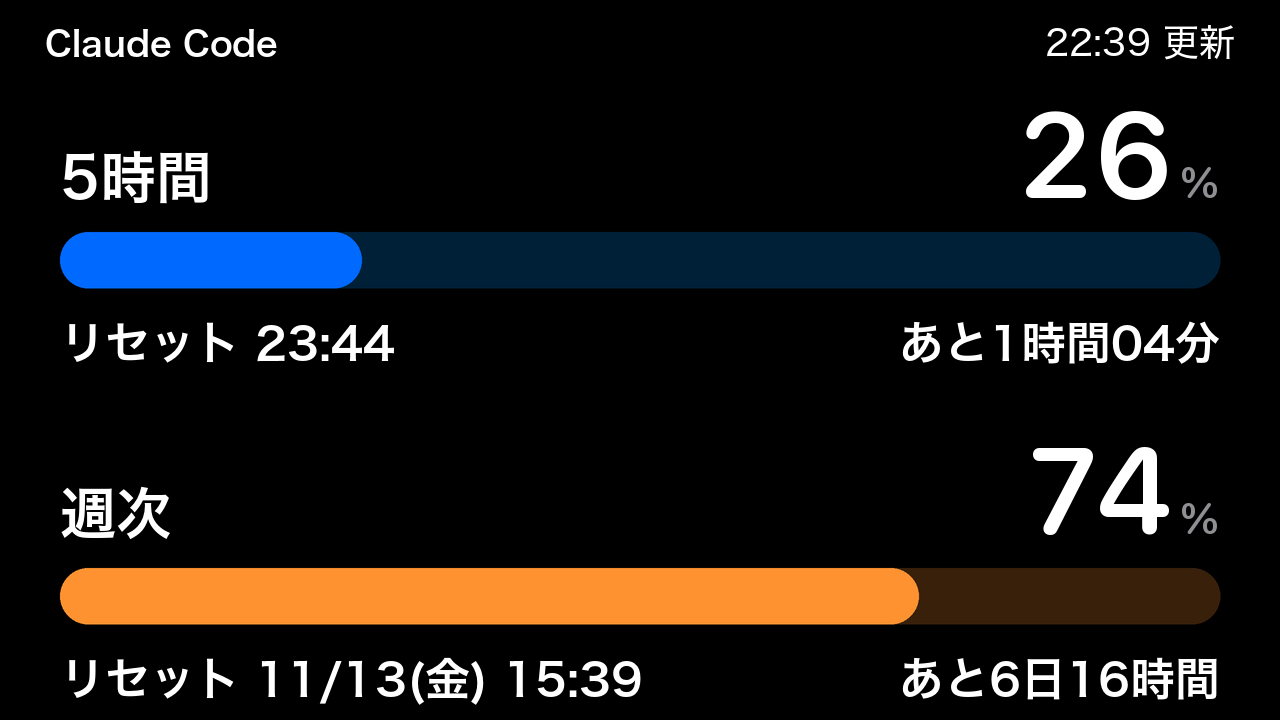
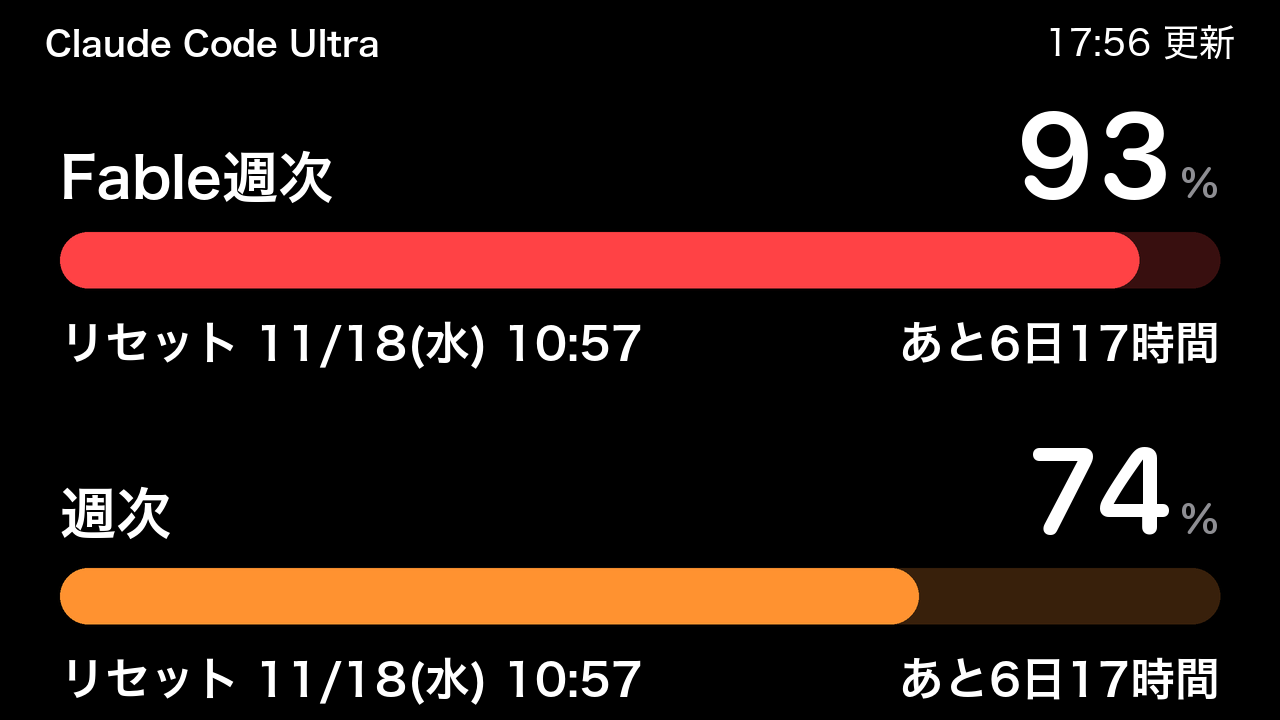
feat(pace): 上段を Fable の週次にし、見出しを「Claude Code Ultra」にする
Ultra を続けることにしたため（ユーザーの指示）。Ultra には 5 時間の枠が無く、Fable の
週次の枠がある（公式の記事「What is the Ultra plan?」と利用枠の API で確かめた）。
pace.ORDER を (2, 1)、pace.TITLE を追加。snapshot にその番号の枠が無ければ「--」で描く。

diff --git a/tests/test_pace.py b/tests/test_pace.py
@@ -19,7 +19,8 @@ def near(pixel, color, tolerance=12):
     return all(abs(a - b) <= tolerance for a, b in zip(pixel, color))
 
 
-SESSION, WEEKLY = pace.ORDER.index(0), pace.ORDER.index(1)  # 5時間・週次を出す段（0 が上）
+FABLE, WEEKLY = pace.ORDER.index(2), pace.ORDER.index(1)  # Fable週次・週次を出す段（0 が上）
+NAMES = ("5時間", "週次", "Fable週次")  # snapshot.meters の番号ごとの名前
 
 
 def bar_row(index):
@@ -29,23 +30,37 @@ def bar_row(index):
 
 class PaceTest(unittest.TestCase):
     def test_bars_are_filled_to_the_percent(self):
-        image = pace.render(snapshot(), NOW, size=SIZE)
+        image = pace.render(snapshot(scoped=26.0), NOW, size=SIZE)
         self.assertEqual(image.size, SIZE)
         left, right = pace.MARGIN, SIZE[0] - pace.MARGIN
-        y = bar_row(SESSION)
+        y = bar_row(FABLE)
         blue = gauge.layout_for(SIZE).blue
         self.assertTrue(near(image.getpixel((round(left + (right - left) * 0.20), y)), blue))  # 26% の手前は塗る
         self.assertFalse(near(image.getpixel((round(left + (right - left) * 0.40), y)), blue))  # 26% より先は地
         self.assertTrue(near(image.getpixel((round(left + (right - left) * 0.5), bar_row(WEEKLY))), gauge.ORANGE))  # 74%
 
-    def test_session_is_on_top_and_weekly_below(self):
-        # 2026-11-06、「5時間、週次に並び替えて」（ユーザーの指示。2026-11-04 に上を週次にしていたのを戻した）
-        self.assertEqual((SESSION, WEEKLY), (0, 1))
-        image = pace.render(snapshot(), NOW, size=(480, 320))
+    def test_fable_is_on_top_and_weekly_below(self):
+        # 2026-11-11、Ultra を続けることにしたユーザーの指示で、上の段を 5時間から Fable の週次に替えた
+        # （それまでは 2026-11-06 の「5時間、週次に並び替えて」で、上が 5時間・下が週次）
+        self.assertEqual((FABLE, WEEKLY), (0, 1))
+        image = pace.render(snapshot(session=99.0, scoped=26.0), NOW, size=(480, 320))
         s = 320 / pace.HEIGHT
         x = round((pace.MARGIN + (1280 - 2 * pace.MARGIN) * 0.5) * 480 / 1280)  # 26% より先、74% より手前
-        self.assertFalse(near(image.getpixel((x, round(bar_row(0) * s))), gauge.ORANGE))  # 上の段は 5時間の 26%
-        self.assertTrue(near(image.getpixel((x, round(bar_row(1) * s))), gauge.ORANGE))  # 下の段は週次の 74%
+        top, bottom = image.getpixel((x, round(bar_row(0) * s))), image.getpixel((x, round(bar_row(1) * s)))
+        self.assertFalse(near(top, gauge.ORANGE) or near(top, gauge.RED))  # 上の段は Fable の 26%（5時間の 99% ではない）
+        self.assertTrue(near(bottom, gauge.ORANGE))  # 下の段は週次の 74%
+
+    def test_title_is_claude_code_ultra(self):
+        # 2026-11-11、「ヘッダーの文字を Claude Code Ultra にしよう」（ユーザーの指示）
+        self.assertEqual(pace.TITLE, "Claude Code Ultra")
+        ultra = pace.render(snapshot(), NOW, size=SIZE)
+        try:
+            pace.TITLE = "Claude Code"
+            plain = pace.render(snapshot(), NOW, size=SIZE)
+        finally:
+            pace.TITLE = "Claude Code Ultra"
+        header = [(x, y) for x in range(0, SIZE[0] // 2, 2) for y in range(0, 70, 2)]
+        self.assertTrue(any(ultra.getpixel(p) != plain.getpixel(p) for p in header))
 
     def test_no_elapsed_mark_or_text(self):
         # 2026-11-03、「時間経過の表記と縦棒は不要」（ユーザーの指示）。棒の上にも名前の右にも白い字・線を出さない
@@ -55,12 +70,12 @@ class PaceTest(unittest.TestCase):
             band = [image.getpixel((x, y)) for x in range(left, right, 4)
                     for y in range(top + pace.BAR[0] - 14, top + pace.BAR[1] + 14, 2)]
             self.assertFalse(any(min(p) > 200 for p in band))
-            name_end = left + font(pace.NAME[1], 6).getlength("5時間") + 10
+            name_end = left + font(pace.NAME[1], 6).getlength(NAMES[pace.ORDER[pace.ROWS.index(top)]]) + 10
             beside = [image.getpixel((x, top + pace.NAME[0] - 10)) for x in range(round(name_end), round(name_end) + 300)]
             self.assertTrue(all(p == gauge.BACKGROUND for p in beside))
 
-    def test_only_session_and_weekly_are_drawn(self):
-        # Fable を使っていないので 2 項目だけ（2026-11-03 ユーザーの指示）。3 段目の位置は黒のまま
+    def test_only_two_rows_are_drawn(self):
+        # 2 項目だけ（2026-11-03 ユーザーの指示）。3 段目の位置は黒のまま
         image = pace.render(snapshot(), NOW, size=SIZE)
         below = [image.getpixel((x, 714)) for x in range(pace.MARGIN, SIZE[0] - pace.MARGIN, 10)]
         self.assertTrue(all(p == gauge.BACKGROUND for p in below))
@@ -92,7 +107,7 @@ class PaceTest(unittest.TestCase):
 
     def test_missing_values_and_fetch_errors_still_render(self):
         gone = Snapshot((Meter("5時間", None, None), Meter("週次", 9, NOW + timedelta(days=6))), NOW)
-        image = pace.render(gone, NOW, "5時間の枠がなくなりました", size=SIZE)
+        image = pace.render(gone, NOW, "取得の間隔を空けています", size=SIZE)  # Fable週次の枠も無い（「--」で描く）
         badge = gauge._badge(gauge.layout_for(SIZE), gauge.HEADER_BASELINE)
         self.assertTrue(near(image.getpixel((round(badge[0]) - 10, round(badge[1]))), gauge.ORANGE, 40))  # 「!」の横
         self.assertEqual(pace.render(None, NOW, "通信できません", size=SIZE).size, SIZE)
@@ -100,7 +115,7 @@ class PaceTest(unittest.TestCase):
     def test_long_texts_do_not_overlap(self):
         # 名前は数字「100%」の左、下の行は左右で重ならない
         name, unit, number = font(pace.NAME[1], 6), gauge.rounded(pace.UNIT), gauge.rounded(pace.NUMBER[1])
-        name_end = pace.MARGIN + name.getlength("5時間")
+        name_end = pace.MARGIN + max(name.getlength(NAMES[i]) for i in pace.ORDER)
         number_start = SIZE[0] - pace.MARGIN - unit.getlength("%") - pace.UNIT_GAP - number.getlength("100")
         self.assertLess(name_end + 40, number_start)
         line = font(pace.LINE[1], 6)
@@ -111,7 +126,8 @@ class PaceTest(unittest.TestCase):
     def test_bottom_line_keeps_a_gap_on_the_35_inch_display(self):
         # 2026-11-03、3.5 インチ（横の狭い 3:2）で週次の日時と残り時間がくっついた。字を縮めて間を残す
         long = Snapshot((Meter("5時間", 26.0, NOW + timedelta(hours=4, minutes=59)),
-                         Meter("週次", 74.0, NOW + timedelta(days=6, hours=23, minutes=59))), NOW)
+                         Meter("週次", 74.0, NOW + timedelta(days=6, hours=23, minutes=59)),
+                         Meter("Fable週次", 26.0, NOW + timedelta(days=6, hours=23, minutes=59))), NOW)
         image = pace.render(long, NOW, size=(480, 320))
         s = 320 / pace.HEIGHT
         row = pace.ROWS[WEEKLY]
@@ -152,12 +168,13 @@ class PaceTest(unittest.TestCase):
         s = 320 / pace.HEIGHT
         with_mark = pace.render(snapshot(), NOW, size=(480, 320), icons=icons)
         plain = pace.render(snapshot(), NOW, size=(480, 320))
-        baseline = round((pace.ROWS[SESSION] + pace.LINE[0]) * s)  # 5時間の段（「リセット済み」も 5時間で確かめる）
+        baseline = round((pace.ROWS[FABLE] + pace.LINE[0]) * s)  # Fable週次の段（「リセット済み」も同じ段で確かめる）
         row = range(round(pace.MARGIN * s), round(pace.MARGIN * s) + 14)
         band = range(baseline - 14, baseline)
         self.assertTrue(any(near(with_mark.getpixel((x, y)), (0, 255, 0), 40) for x in row for y in band))
         self.assertFalse(any(near(plain.getpixel((x, y)), (0, 255, 0), 40) for x in row for y in band))
         # 「リセット済み」は文字のまま（記号を出さない）
-        done = Snapshot((Meter("5時間", 26.0, NOW - timedelta(minutes=1)), Meter("週次", 74.0, NOW + timedelta(days=3))), NOW)
+        done = Snapshot((Meter("5時間", 26.0, NOW + timedelta(hours=1)), Meter("週次", 74.0, NOW + timedelta(days=3)),
+                         Meter("Fable週次", 26.0, NOW - timedelta(minutes=1))), NOW)
         image = pace.render(done, NOW, size=(480, 320), icons=icons)
         self.assertFalse(any(near(image.getpixel((x, y)), (0, 255, 0), 40) for x in row for y in band))

diff --git a/claude_usage_display/pace.py b/claude_usage_display/pace.py
@@ -1,9 +1,11 @@
-"""5時間と週次の 2 つを太い横棒で出す画面（``--theme pace``）。5.2 インチ向けに作った（2026-11-03）。
+"""利用枠の 2 つを太い横棒で出す画面（``--theme pace``）。5.2 インチ向けに作った（2026-11-03）。
 
-ユーザーが Fable を使っていないので 2 項目にし、見せ方を見本の 3 案から選んだ（「案 2」。``docs/handover.md`` §4-24）。
+最初は 5時間と週次の 2 項目にし（ユーザーが Fable を使っていなかった）、見せ方を見本の 3 案から選んだ（「案 2」。
+``docs/handover.md`` §4-24）。
 
 - 上下 2 段に、Apple の Gauges の直線の容量ゲージ（値の位置まで塗る）を太い横棒で置く。2 本は同じ幅・同じ左端なので、
-  棒の端の位置で 2 つを比べられる。上が 5時間、下が週次（2026-11-04 に入れ替え、2026-11-06 にユーザーの指示で戻した）
+  棒の端の位置で 2 つを比べられる。上が Fable の週次、下が全モデルの週次（``ORDER``。2026-11-11、Ultra を続けることに
+  したユーザーの指示で、5 時間の枠の段を Fable の週次に替えた。Ultra には 5 時間の枠が無く、Fable の週次の枠がある）
 - 名前は棒の真上の左、数字は右上に（% は小さく灰色）。名前と数字は同じ基準線に載せる。下の行は、左にリセットの日時、
   右に残り時間
 - 名前の pace は、最初は棒の上に枠の時間の経過の目印（と名前の右に「経過 N%」）を出していたことから。同じ日に、
@@ -31,7 +33,7 @@ MARGIN = 60          # 左右の余白
 # 5時間と週次の間を広げた（約 15→27 px（3.5 インチ）。同日、ユーザーの指示「5時間と週次を隙間を空けたい」）。
 # 1 段目を 84→76 に上げ、2 段目を 398→412 に下げ、下の行を 290→284 に上げて画面の下に収めた
 ROWS = (76, 412)     # 2 段の上端
-ORDER = (0, 1)       # 上の段から順に、どの枠を出すか（snapshot.meters の番号。0 が 5時間、1 が週次）
+ORDER = (2, 1)       # 上の段から順に、どの枠を出すか（snapshot.meters の番号。0 が 5時間、1 が週次、2 が Fable週次）
 # 名前は数字と同じ基準線に載せ、棒の真上に置く（2026-11-04、ユーザーの指示「5時間・週次のテキストをバーの真上に」。
 # 見本の 2 案から選んだ。70→122。3.5 インチで、名前と棒の間は 35→12 px で、棒と下の行の間（14〜15 px）とほぼ同じ）
 NAME = (122, 56)     # 名前の基準線（段の上端から）・大きさ
@@ -48,6 +50,9 @@ RESET_GAP = 0.3      # 記号と時刻の間（同じく比）
 # そろえる（2026-11-03 ユーザーの指示。ゲージ型の画面の 3.5 インチの既定は 13 で、並べると小さく見えた）。
 # 5.2 インチでは 36 px で、それまでと同じ
 STAMP = 16
+# 見出しの名前。2026-11-11、Ultra を続けることにしたユーザーの指示で「Claude Code」から変えた（プランは API の応答から
+# 読まず、ここに書く）
+TITLE = "Claude Code Ultra"
 
 
 def _reset_text(when: str) -> str:
@@ -57,14 +62,17 @@ def _reset_text(when: str) -> str:
 def render(snapshot: Snapshot | None, now: datetime, status: str | None = None,
            labels: tuple[str, ...] = ("5時間", "週次", "Fable週次"),
            size: tuple[int, int] = (1280, 720), icons: dict[str, Image.Image] | None = None) -> Image.Image:
-    """``snapshot`` の先頭の 2 つ（5時間・週次）を、``ORDER`` の順に描く。引数はゲージ型の画面（``gauge.render``）と同じ。"""
+    """``snapshot`` の枠のうち 2 つを、``ORDER`` の順に描く。引数はゲージ型の画面（``gauge.render``）と同じ。
+
+    ``snapshot`` にその番号の枠が無ければ、``labels`` の名前で値の無い（「--」の）段にする。
+    """
     layout = gauge.layout_for(size)
     s = layout.height / HEIGHT
     sized = lambda value: round(value * s)  # noqa: E731
     width = layout.width
     left, right = MARGIN * s, width - MARGIN * s
-    source = snapshot.meters if snapshot else tuple(Meter(label, None, None) for label in labels)
-    meters = tuple(source[i] for i in ORDER)
+    source = snapshot.meters if snapshot else ()
+    meters = tuple(source[i] if i < len(source) else Meter(labels[i], None, None) for i in ORDER)
 
     shapes = gauge._Shapes(layout)
     for meter, top in zip(meters, ROWS):
@@ -83,7 +91,7 @@ def render(snapshot: Snapshot | None, now: datetime, status: str | None = None,
 
     image = shapes.finish()
     draw = ImageDraw.Draw(image)
-    gauge._header(image, draw, layout, gauge.HEADER_BASELINE, "Claude Code", snapshot, status,
+    gauge._header(image, draw, layout, gauge.HEADER_BASELINE, TITLE, snapshot, status,
                   (icons or {}).get("claude"), STAMP)
     # 下の行（リセットと残り時間）は、2 段とも左右の間に LINE_GAP を残して収まる大きさにそろえる。寸法を高さの比で
     # 縮めるので、横の狭い 3.5 インチ（3:2）では 50 のままだと週次の日時と残り時間がくっついた（2026-11-03）。

diff --git a/docs/handover.md b/docs/handover.md
@@ -587,6 +587,14 @@ scripts/uninstall-launch-agent.sh                                 # 自動起動
 - **件数の数字は変えていない**（ふだんは白、警報の条件を満たした時間があるときだけ赤）。「1 件以上なら数字も赤」の見本を見せたが、ユーザーが「件数の数字は白のままでいい」と答えた
 - テスト `test_counter_rows_show_the_total_and_red_bars_for_alarmed_hours` を書き直した（警報の時間とその前の時間の棒が、どちらも赤）。README の説明と `monitor-1280x720.png` も直した
 
+### 4-35. 利用枠の画面の上段を Fable の週次にし、見出しを「Claude Code Ultra」にした（2026-11-11）
+
+- **ユーザーの指示**: 「Ultra 継続することにしたので、上段は Fable にしようと思うんだけど Ultra も Fable は制限あるんだっけ？」、続けて「ヘッダーの文字を Claude Code Ultra にしよう」。§4-28 の「Ultra は解約して Max に戻る」予定は取りやめになった
+- **調べたこと**: 公式の記事「What is the Ultra plan?」（https://support.claude.com/en/articles/17728952-what-is-the-ultra-plan 、2026-11-11 に読んだ）に "Ultra plans have a weekly usage limit that applies across all models, and a separate weekly limit for Fable." とある。利用枠の API（2026-11-11 17:50:52）は `weekly_all`（46%・`is_active` true・11/16 10:00 リセット）と `weekly_scoped`（Fable。0%・`is_active` false・同じ時刻）で、`session`（5 時間）は無かった
+- **見本**: いまの値で、上段 5時間（「--」）のいまの画面と、上段 Fable週次（0%）・下段 週次（46%）を並べて見せ、**ユーザーが上段 Fable週次・下段 週次を選んだ**
+- **入れたこと**: `pace.ORDER = (2, 1)`（`snapshot.meters` の 2 が Fable週次）。`snapshot` にその番号の枠が無ければ、`labels` の名前で「--」の段にする（それまでは番号の無い snapshot で落ちた）。見出しの名前は `pace.TITLE = "Claude Code Ultra"`（プランは API の応答から読まず、定数に書く）。`usage.parse_usage` の並びと、5 時間の枠の見張り（`Runner._watch_session`。無いことをログに残す）は変えていない。テストは `test_fable_is_on_top_and_weekly_below`・`test_title_is_claude_code_ultra` を足し、ほかを Fable の段で確かめる形に直した。README・CLAUDE.md・`--theme` の説明・README の画像も直した
+- **同じ日に見つかったこと**（ユーザーに報告した）: 3 つの常駐のログ（`~/Library/Logs/claude-usage-display*.log`）が 11/8 01:32 ごろにゴミ箱へ移され、その後ゴミ箱を空にして消えていた（常駐は消えたファイルに書き続けていた。`lsof` で確かめた）。アイコンのフォルダ（`~/Library/Application Support/claude-usage-display/`。`claude.png`・`reset.png`・`apple.png`・サイトのロゴ）もフォルダごと消え、ゴミ箱にも無かった。Claude のセッションの記録でこれらに触れていたのは 2 件で、どちらも読んだだけだった。常駐は起動のときにアイコンを読むので画面は変わっていなかったが、起動し直すと、サーバーの状態の常駐はロゴが無いため「logo の画像がありません」で起動しない。**ユーザーが Time Machine で戻すことを選んだ**（最新の世代は 11/11 13:53。ここからはマウントされておらず読めなかった）。戻るまで、常駐は起動し直さない
+
 ## 5. 残っている作業（上から順に）
 
 1〜5 は 2026-10-05 に終えた（README.md、CLAUDE.md、requirements.txt と .gitignore、自動起動の作成と登録、git の初期化と push）。
